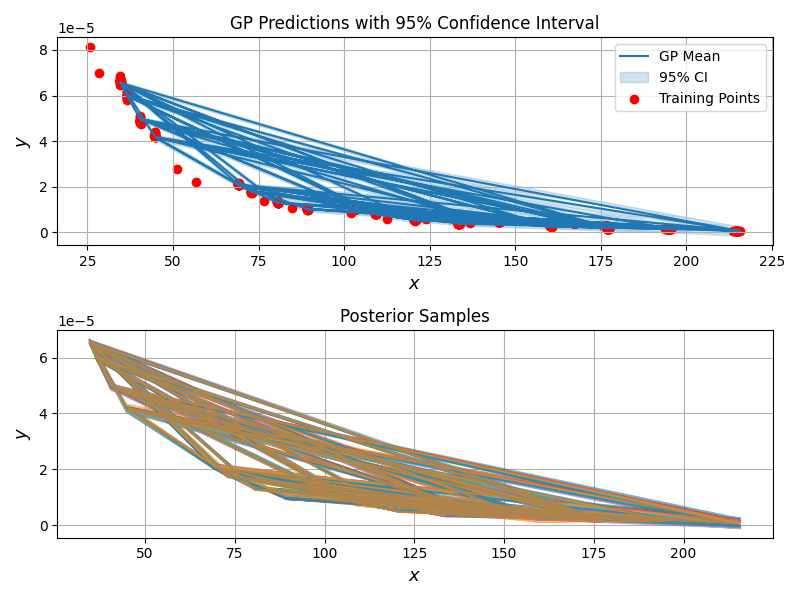
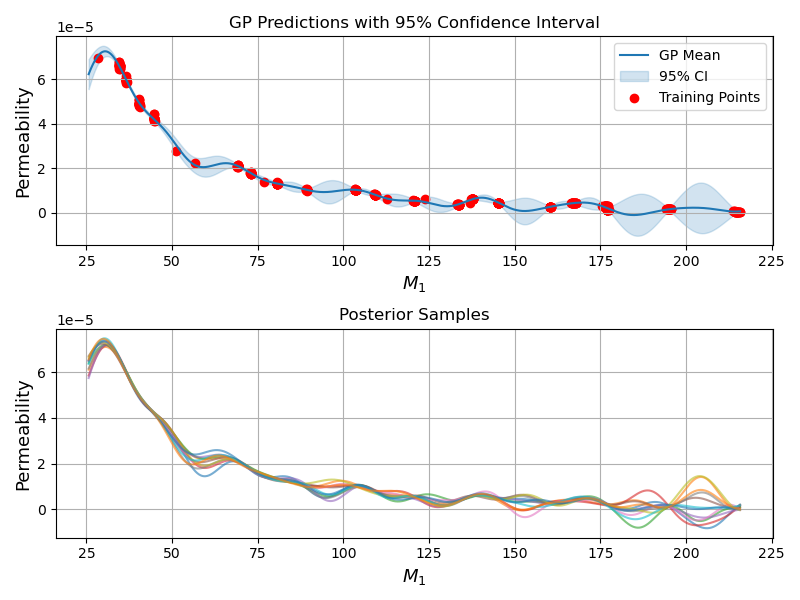
GPGPGPGPGP

diff --git a/MLP_4_Gaussian_Processes.py b/MLP_4_Gaussian_Processes.py
@@ -4,6 +4,7 @@ import pandas as pd
 import os
 import glob
 import torch
+import time as time
 
 from sklearn.preprocessing import StandardScaler
 from sklearn.model_selection import train_test_split
@@ -36,8 +37,8 @@ def plot_preds(mu_pred, X_train, X_test, y_train, posterior_samples, domain, con
     ax1.plot(X_test, mu_pred, "C0-", label="GP Mean")
     ax1.fill_between(X_test.flatten(), confidence_lower, confidence_upper, color="C0", alpha=0.2, label="95% CI")
     ax1.scatter(X_train, y_train, color="red", label="Training Points")
-    ax1.set_xlabel("$x$", fontsize=13)
-    ax1.set_ylabel("$y$", fontsize=13)
+    ax1.set_xlabel("$M_1$", fontsize=13)
+    ax1.set_ylabel("Permeability", fontsize=13)
     ax1.set_title("GP Predictions with 95% Confidence Interval")
     ax1.legend()
     ax1.grid()
@@ -45,8 +46,8 @@ def plot_preds(mu_pred, X_train, X_test, y_train, posterior_samples, domain, con
      # Posterior samples
     for sample in posterior_samples:
         ax2.plot(X_test, sample, alpha=0.6)
-    ax2.set_xlabel("$x$", fontsize=13)
-    ax2.set_ylabel("$y$", fontsize=13)
+    ax2.set_xlabel("$M_1$", fontsize=13)
+    ax2.set_ylabel("Permeability", fontsize=13)
     ax2.set_title("Posterior Samples")
     ax2.grid()
     plt.tight_layout()
@@ -57,7 +58,7 @@ def plot_preds(mu_pred, X_train, X_test, y_train, posterior_samples, domain, con
 best_mse = float('inf')
 best_params = {}
 
-pathlist = ['Eddie/Porespy_homogenous_diamater']
+pathlist = ['Eddie/Porespy_homogenous_diameter']
 #, 'Datasets/Heterogeneous_samples', 'Datasets/Threshold_homogenous_diamater_small_RCP', 'Datasets/Threshold_homogenous_diamater_wide_RCP']
 
     
@@ -85,10 +86,17 @@ for path in pathlist:
     #Radial quadratic kernel
     K_rq = C(1.0) * RationalQuadratic(length_scale=10.0, alpha=1.5)
     
+    start_time = time.time()
+    
     gp = GaussianProcessRegressor(kernel=K, alpha=0.01, n_restarts_optimizer=20, normalize_y=True)
     gp.fit(X_train, y_train)  
     
     y_pred, sigma = gp.predict(X_test, return_std=True)
+    
+    end_time = time.time()
+    
+    print(f"Time duration: {end_time - start_time}")
+    
     mu_pred = scaler_y.inverse_transform(y_pred.reshape(-1, 1)).flatten()
     sigma_scaled = sigma * scaler_y.scale_
     confidence_upper = mu_pred + 1.96 * sigma_scaled
@@ -123,12 +131,21 @@ for path in pathlist:
     plt.savefig('Parity_GP', dpi=300)
     plt.show()
     
-    posterior_samples = gp.sample_y(X_test, n_samples=12).T
+    X_test = np.linspace(np.min(X),np.max(X),2000).reshape(-1,1)
+    X_test_scaled = scaler_X.transform(X_test)
+    
+    y_pred, sigma = gp.predict(X_test_scaled, return_std=True)
+    mu_pred = scaler_y.inverse_transform(y_pred.reshape(-1, 1)).flatten()
+    
+    sigma_scaled = sigma * scaler_y.scale_
+    confidence_upper = mu_pred + 1.96 * sigma_scaled
+    confidence_lower = mu_pred - 1.96 * sigma_scaled
+    
+    posterior_samples = gp.sample_y(X_test_scaled, n_samples=12).T
     posterior_samples_inv = scaler_y.inverse_transform(posterior_samples)
+    
+    domain = [X_test.min(), X_test.max()]
 
     # Plot predictions
     domain = [X_test_inv.min(), X_test_inv.max()]
-    plot_preds(mu_pred, X_train_inv, X_test_inv, y_train_inv, posterior_samples_inv, domain, confidence_upper, confidence_lower)
-    
-    
-    
+    plot_preds(mu_pred, X_train_inv, X_test, y_train_inv, posterior_samples_inv, domain, confidence_upper, confidence_lower)
